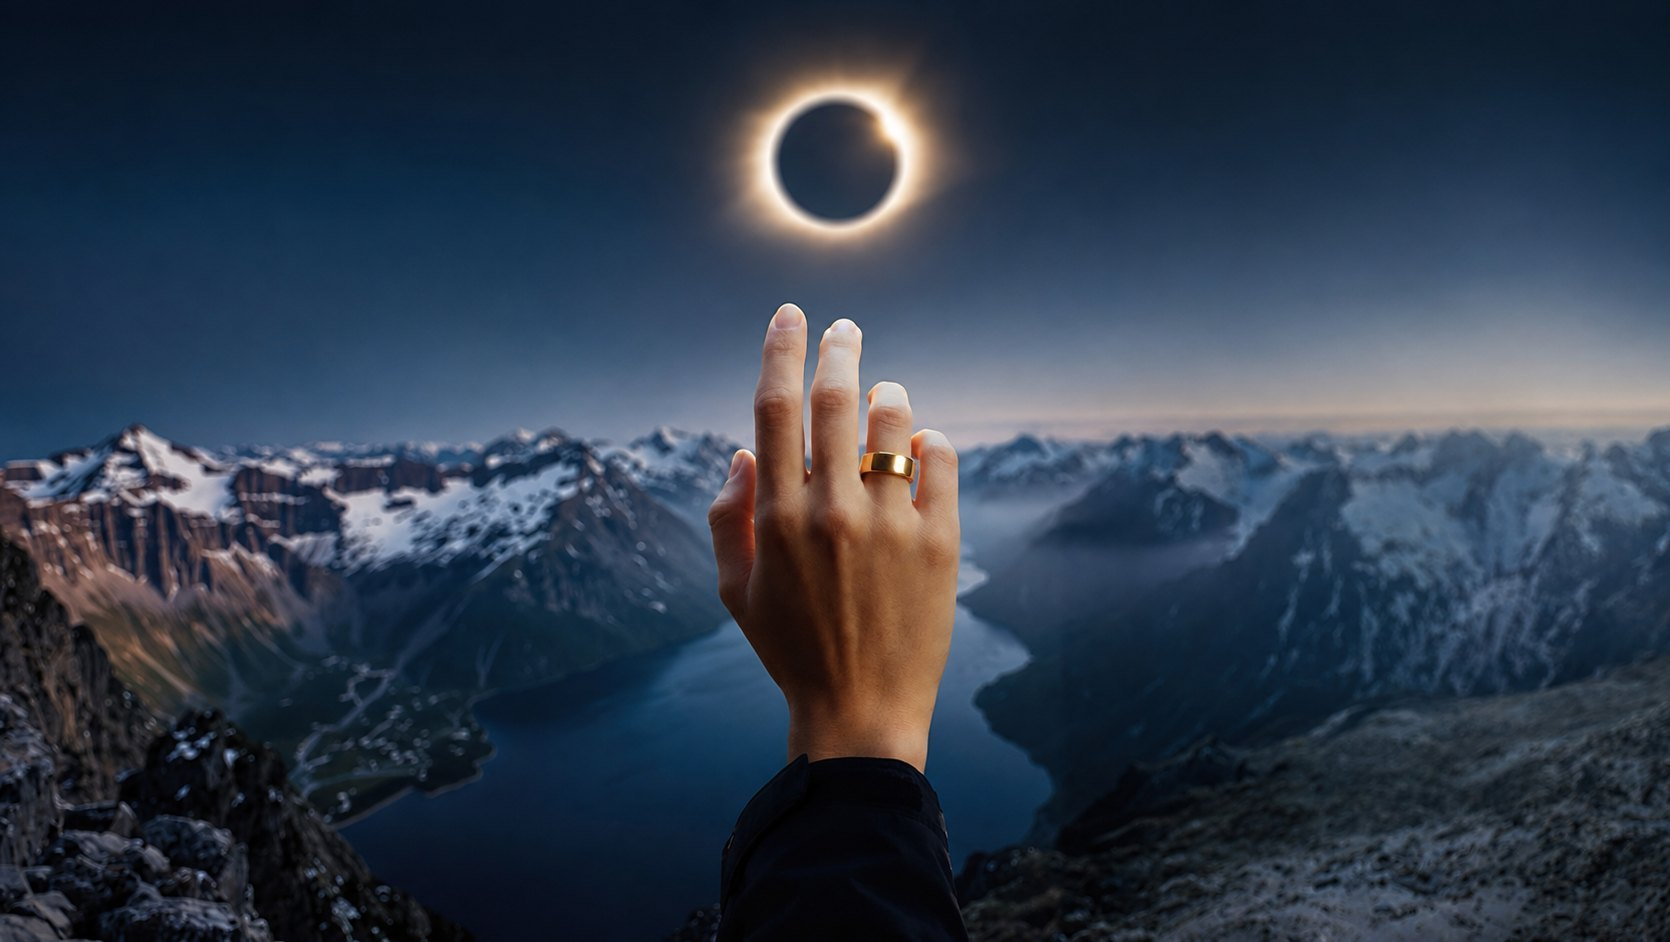
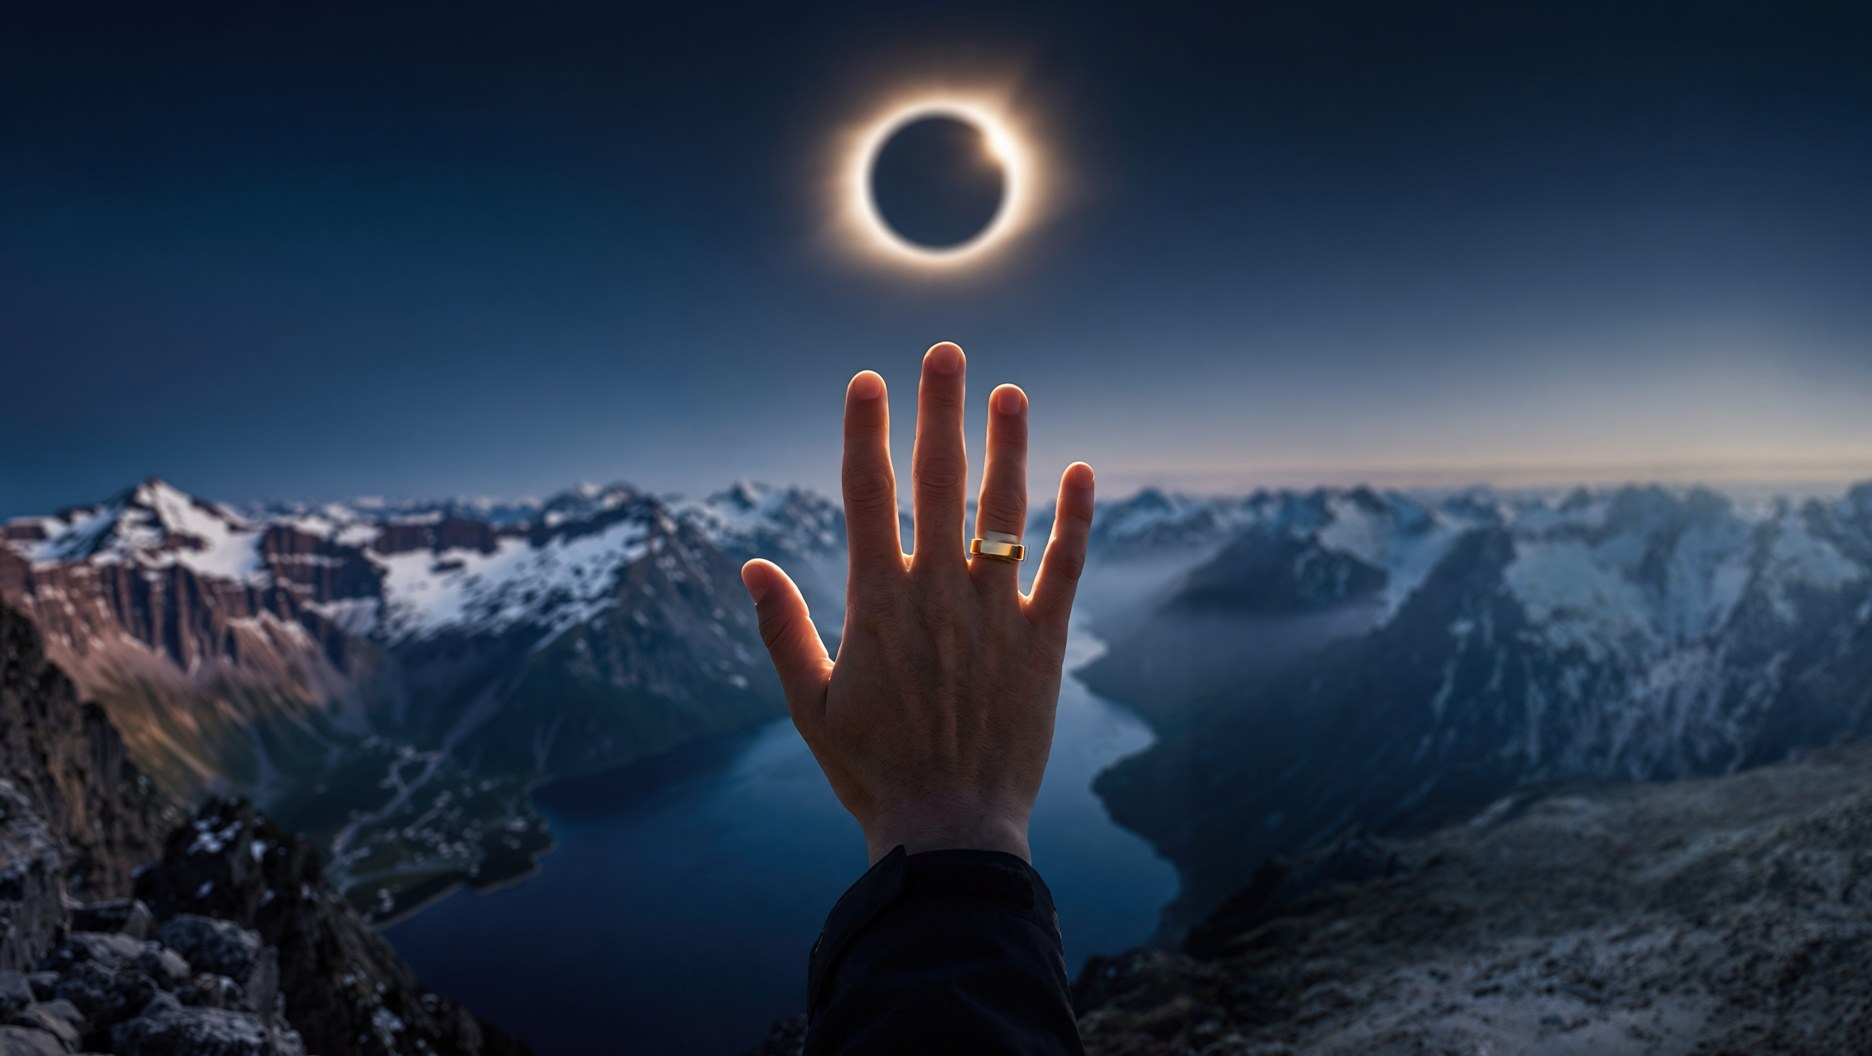
Restore the previous hand, keep only the flat ring

diff --git a/index.html b/index.html
@@ -819,8 +819,8 @@ body.bar-visible{padding-bottom:64px}
        downloads the tall one. The 900px breakpoint here is the same one the
        ripple-anchor constants switch on; move one and you must move the other. -->
   <picture>
-    <source media="(min-width:900px)" srcset="assets/hero-reach.jpg" width="1670" height="942">
-    <img decoding="async" class="hero-bg" src="assets/autopilot-hand.jpg" alt="" fetchpriority="high" width="862" height="1825">
+    <source media="(min-width:900px)" srcset="assets/hero-reach.jpg" width="1872" height="1056">
+    <img decoding="async" class="hero-bg" src="assets/autopilot-hand.jpg" alt="" fetchpriority="high" width="1116" height="2000">
   </picture>
   <span class="hero-pulse" aria-hidden="true"><i></i><i></i><i></i></span>
   <div class="hero-foot">
@@ -1899,8 +1899,8 @@ if('IntersectionObserver' in window){
   /* two cuts, one anchor: constants per image, picked off the same 900px
      breakpoint as the <source> media. Measured centre/width as fractions. */
   const CUTS={
-    tall:{POS_Y:0.59, RING_X:0.5739, RING_Y:0.5207, RING_W:0.138},   /* autopilot-hand.jpg */
-    wide:{POS_Y:0.40, RING_X:0.5345, RING_Y:0.4922, RING_W:0.038}    /* hero-reach.jpg */
+    tall:{POS_Y:0.59, RING_X:0.6285, RING_Y:0.5202, RING_W:0.158},   /* autopilot-hand.jpg */
+    wide:{POS_Y:0.40, RING_X:0.530,  RING_Y:0.515,  RING_W:0.042}    /* hero-reach.jpg */
   };
   const heroMQ=matchMedia('(min-width:900px)');
   const pulse=document.querySelector('.hero-pulse');
